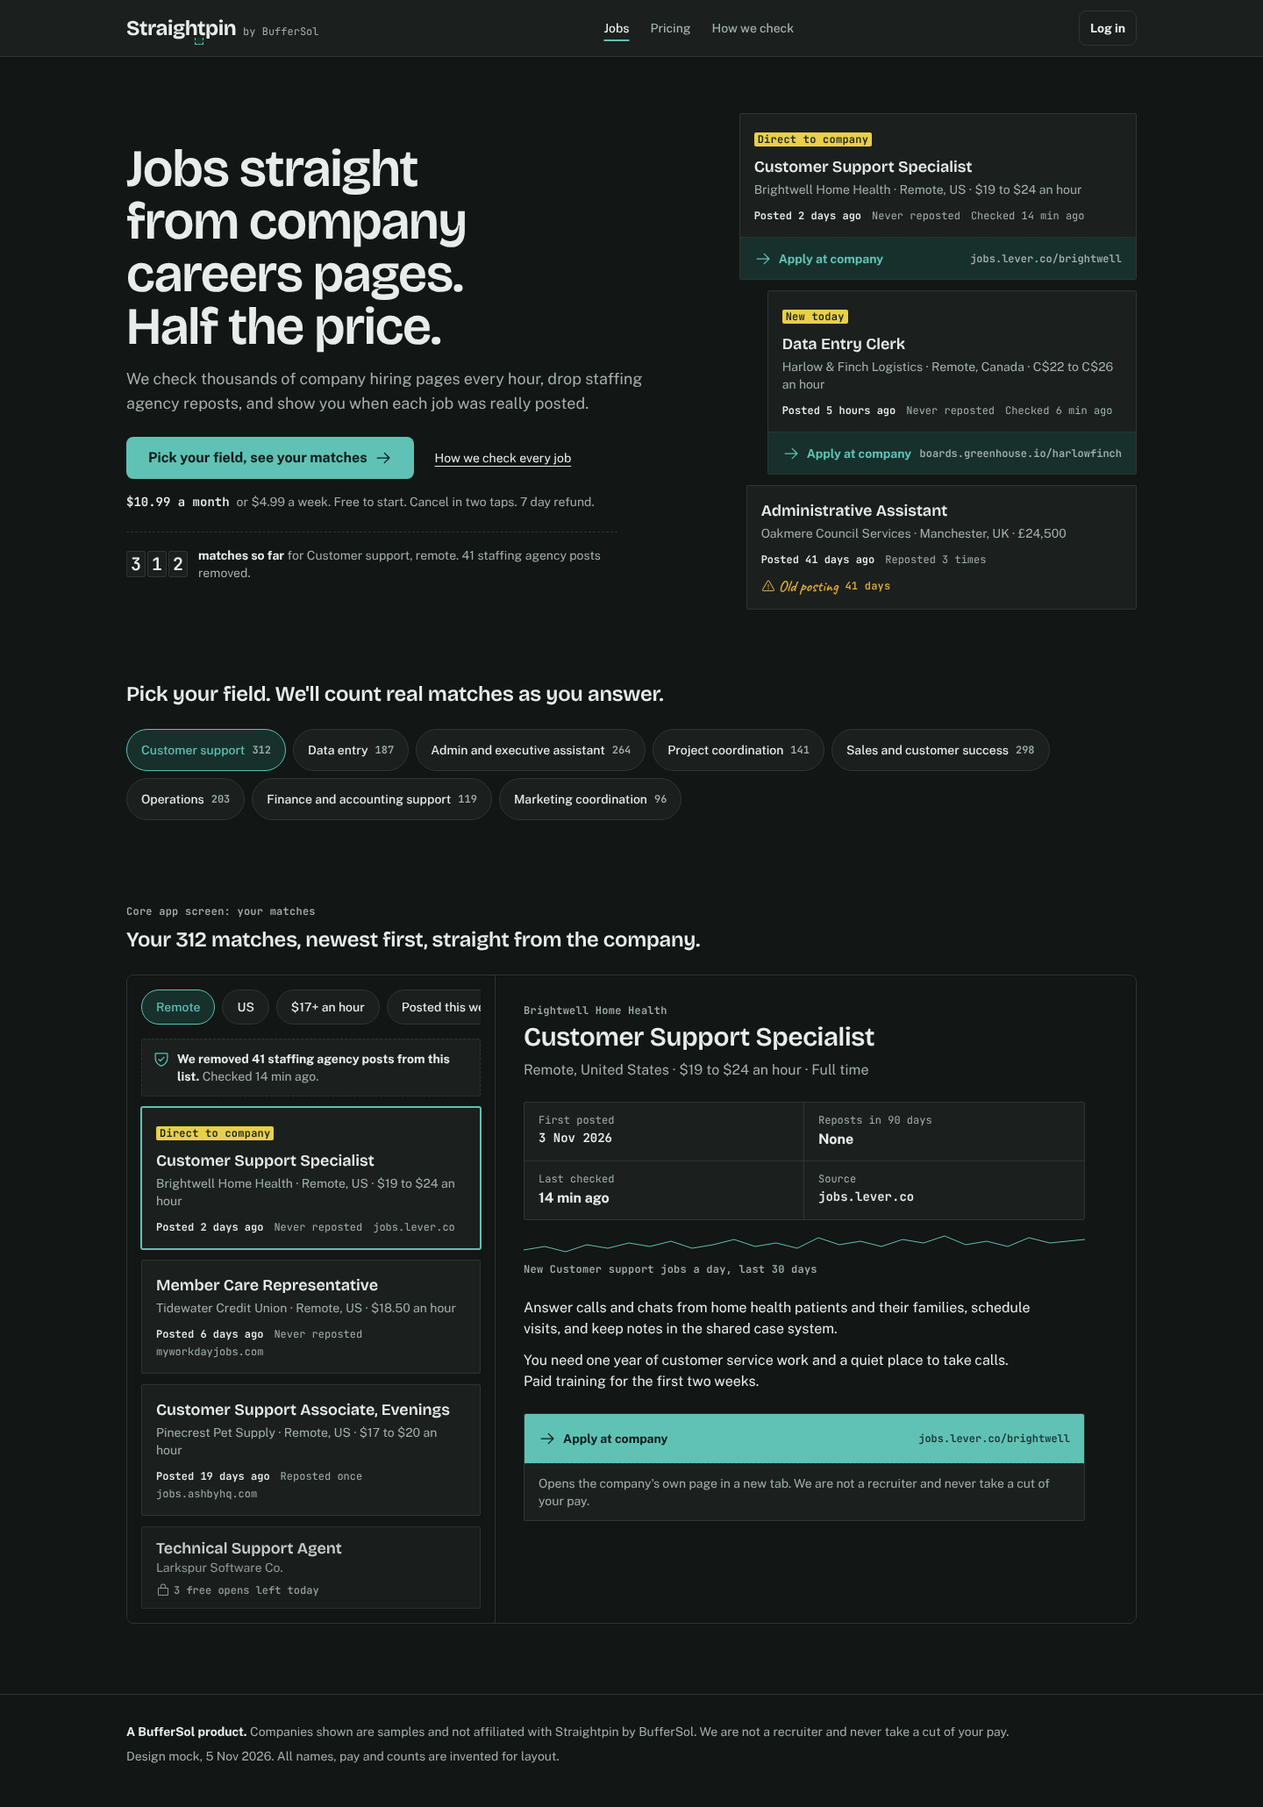
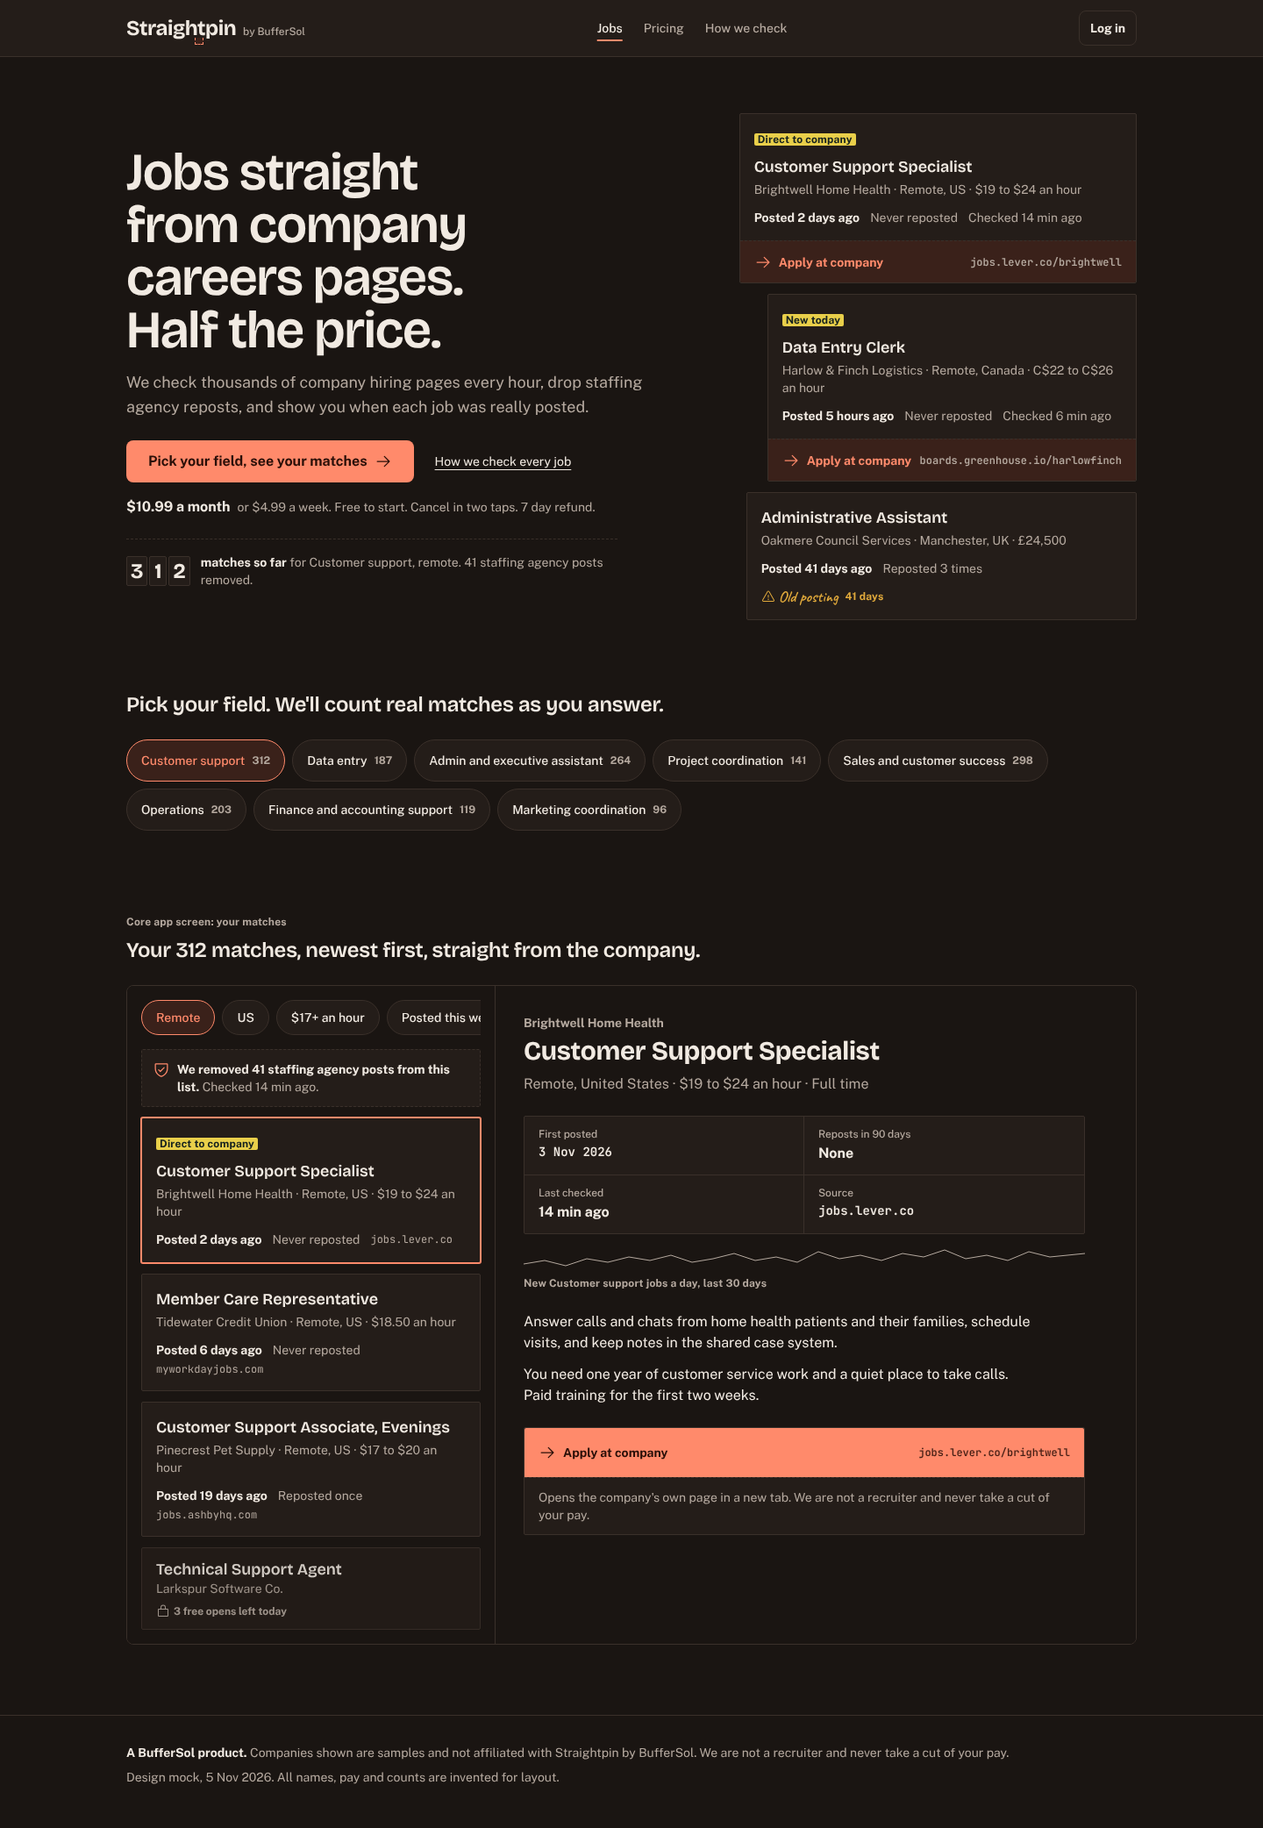
Design: warm tomato palette, mono cut back (#2)
* Design: warm tomato palette, mono cut back to tiny metadata (orchestrator review)

Claude-Session: https://claude.ai/code/session_01Mn59CoWLVeUHP8BZr387Lp

* Record D-009 palette decision

Claude-Session: https://claude.ai/code/session_01Mn59CoWLVeUHP8BZr387Lp

---------

diff --git a/docs/design/mock.html b/docs/design/mock.html
@@ -9,9 +9,9 @@
 <link href="https://fonts.googleapis.com/css2?family=Bricolage+Grotesque:opsz,wght@12..96,600;12..96,700&family=Caveat:wght@600&family=JetBrains+Mono:wght@400;600&family=Public+Sans:wght@400;500;700&display=swap" rel="stylesheet">
 <style>
 :root{
-  --board:#F3F4F1;--paper:#FFFFFF;--ink:#14201E;--ink-muted:#4F5D5A;--rule:#D5D9D3;
-  --brand:#0F5C55;--brand-hover:#0B4842;--brand-tint:#E3F1EE;--brand-on:#FFFFFF;
-  --highlight:#FFE45C;--marker:#C4321F;--success:#1E7B4F;--warn:#8A5A00;
+  --board:#F6F1E9;--paper:#FFFDF9;--ink:#1F1A17;--ink-muted:#5C524B;--rule:#DDD3C6;
+  --brand:#B8381C;--brand-hover:#8F2B14;--brand-tint:#FBE7DF;--brand-on:#FFFFFF;
+  --highlight:#FFE45C;--marker:#2A4B9B;--success:#1E7B4F;--warn:#8A5A00;
   --ease:cubic-bezier(0.22,1,0.36,1);
   --font-display:"Bricolage Grotesque",ui-sans-serif,system-ui,sans-serif;
   --font-body:"Public Sans",ui-sans-serif,system-ui,sans-serif;
@@ -19,16 +19,16 @@
   --font-hand:"Caveat",cursive;
 }
 @media (prefers-color-scheme:dark){:root:not([data-theme=light]){
-  --board:#121614;--paper:#1B201E;--ink:#E8ECEA;--ink-muted:#A3AFAB;--rule:#2E3532;
-  --brand:#5FC2B5;--brand-hover:#7AD3C7;--brand-tint:#17302C;--brand-on:#0B1A18;
-  --highlight:#E9CF4A;--marker:#FF8A73;--success:#5BC48C;--warn:#E0A93B;}}
+  --board:#1A1512;--paper:#241D19;--ink:#F1EAE2;--ink-muted:#B5A99F;--rule:#3A302A;
+  --brand:#FF8A6B;--brand-hover:#FFA48A;--brand-tint:#3A211A;--brand-on:#2A0F08;
+  --highlight:#E9CF4A;--marker:#8FB0FF;--success:#5BC48C;--warn:#E0A93B;}}
 :root[data-theme=dark]{
-  --board:#121614;--paper:#1B201E;--ink:#E8ECEA;--ink-muted:#A3AFAB;--rule:#2E3532;
-  --brand:#5FC2B5;--brand-hover:#7AD3C7;--brand-tint:#17302C;--brand-on:#0B1A18;
-  --highlight:#E9CF4A;--marker:#FF8A73;--success:#5BC48C;--warn:#E0A93B;}
+  --board:#1A1512;--paper:#241D19;--ink:#F1EAE2;--ink-muted:#B5A99F;--rule:#3A302A;
+  --brand:#FF8A6B;--brand-hover:#FFA48A;--brand-tint:#3A211A;--brand-on:#2A0F08;
+  --highlight:#E9CF4A;--marker:#8FB0FF;--success:#5BC48C;--warn:#E0A93B;}
 *{box-sizing:border-box;margin:0}
+.grid>*,.stack>*,.list>*,.app>*,.notice,.tear{min-width:0}
 html{-webkit-text-size-adjust:100%}
-html,body{overflow-x:clip}
 body{background:var(--board);color:var(--ink);font:400 16px/24px var(--font-body);}
 a{color:inherit}
 :focus-visible{outline:2px solid var(--brand);outline-offset:2px}
@@ -44,7 +44,8 @@ a{color:inherit}
 .body-3{font:400 16px/24px var(--font-body);text-wrap:pretty}
 .body-6{font:400 14px/20px var(--font-body)}
 .button-md{font:700 16px/24px var(--font-body)}
-.caption-3{font:600 12px/16px var(--font-mono);letter-spacing:.02em}
+.caption-3{font:700 12px/16px var(--font-body);letter-spacing:.02em}
+.mono{font-family:var(--font-mono)}
 .muted{color:var(--ink-muted)}
 /* top bar */
 .bar{background:var(--paper);border-bottom:1px solid var(--rule);position:sticky;top:0;z-index:10}
@@ -52,7 +53,7 @@ a{color:inherit}
 .logo{display:flex;align-items:baseline;gap:8px;text-decoration:none}
 .logo b{font:700 24px/32px var(--font-display);letter-spacing:-.02em;position:relative}
 .logo b i{position:absolute;left:62%;top:27px;width:10px;height:8px;border:1.5px dashed var(--brand);border-top:0;background:var(--brand-tint)}
-.logo span{font:400 12px/16px var(--font-mono);color:var(--ink-muted)}
+.logo span{font:500 12px/16px var(--font-body);color:var(--ink-muted)}
 .nav{display:none;gap:24px}.nav a{text-decoration:none;color:var(--ink-muted);font:500 14px/20px var(--font-body)}
 .nav a[aria-current]{color:var(--ink);text-decoration:underline;text-decoration-color:var(--brand);text-underline-offset:8px;text-decoration-thickness:2px}
 @media(min-width:768px){.nav{display:flex}}
@@ -71,25 +72,26 @@ a{color:inherit}
 .hl{background:var(--highlight);color:#14201E;padding:0 4px;border-radius:2px}
 .cta-row{margin-top:24px;display:flex;flex-wrap:wrap;gap:16px 24px;align-items:center}
 .price{margin-top:16px;display:flex;flex-wrap:wrap;gap:4px 8px;align-items:baseline}
-.price strong{font:600 14px/20px var(--font-mono)}
+.price strong{font:700 16px/24px var(--font-body)}
 .counter{margin-top:24px;display:flex;align-items:center;gap:12px;padding-top:16px;border-top:1.5px dashed var(--rule);max-width:560px}
 .digits{display:inline-flex;gap:2px}
-.digits span{font:600 20px/28px var(--font-mono);background:var(--paper);border:1px solid var(--rule);border-radius:2px;padding:0 4px;min-width:20px;text-align:center}
+.digits span{font:700 24px/32px var(--font-display);background:var(--paper);border:1px solid var(--rule);border-radius:2px;padding:0 4px;min-width:20px;text-align:center}
 /* notice card */
 .notice{background:var(--paper);border:1px solid var(--rule);border-radius:2px;transition:box-shadow .3s var(--ease),transform .5s var(--ease)}
-.notice:hover{box-shadow:0 1px 0 var(--rule),0 6px 16px rgb(20 32 30/.08)}
+.notice:hover{box-shadow:0 1px 0 var(--rule),0 6px 16px rgb(31 26 23/.10)}
 .stack{display:grid;gap:12px;position:relative}
 .notice .body{padding:16px}
 .notice h3{font:600 18px/24px var(--font-display)}
 .company{margin-top:4px}
-.meta{display:flex;flex-wrap:wrap;gap:4px 12px;margin-top:12px;font:400 12px/16px var(--font-mono);color:var(--ink-muted)}
+.meta{display:flex;flex-wrap:wrap;gap:4px 12px;margin-top:12px;font:400 14px/20px var(--font-body);color:var(--ink-muted)}
+.meta .host{font:400 12px/16px var(--font-mono);align-self:center}
 .meta b{font-weight:600;color:var(--ink)}
 .tags{display:flex;flex-wrap:wrap;gap:8px;margin-top:12px;align-items:center}
 .note{font:600 18px/20px var(--font-hand);color:var(--marker);display:inline-flex;gap:4px;align-items:center}
 .note svg{width:16px;height:16px}
 .warn{color:var(--warn)}
 .tear{display:flex;width:100%;justify-content:space-between;align-items:center;min-height:48px;padding:8px 16px;background:var(--brand-tint);color:var(--brand);border:0;border-top:1.5px dashed var(--rule);font:700 14px/20px var(--font-body);cursor:pointer;border-radius:0 0 2px 2px;text-align:left;gap:8px}
-.tear span.h{overflow:hidden;text-overflow:ellipsis;white-space:nowrap;min-width:0;font:600 12px/16px var(--font-mono);color:var(--ink-muted)}
+.tear span.h{font-family:var(--font-mono)!important;overflow:hidden;text-overflow:ellipsis;white-space:nowrap;min-width:0;font:600 12px/16px var(--font-mono);color:var(--ink-muted)}
 .tear .t{white-space:nowrap;display:inline-flex;gap:8px;align-items:center;transition:transform .16s var(--ease)}
 .tear:hover .t{transform:translateX(4px)}
 .tear.torn .t{transform:translateX(6px)}
@@ -102,7 +104,7 @@ a{color:inherit}
 .chip{display:inline-flex;gap:8px;align-items:center;min-height:48px;padding:8px 16px;border-radius:9999px;border:1px solid var(--rule);background:var(--paper);font:500 14px/20px var(--font-body);cursor:pointer;color:var(--ink);transition:background-color .3s var(--ease),border-color .3s var(--ease)}
 .chip:hover{border-color:var(--brand)}
 .chip[aria-pressed=true]{background:var(--brand-tint);border-color:var(--brand);color:var(--brand)}
-.chip em{font:600 12px/16px var(--font-mono);font-style:normal;color:var(--ink-muted)}
+.chip em{font:700 12px/16px var(--font-body);font-style:normal;color:var(--ink-muted)}
 /* app screen */
 .section{padding:48px 0}
 .sec-head{display:grid;gap:8px;max-width:680px;margin-bottom:24px}
@@ -116,17 +118,17 @@ a{color:inherit}
 .receipt svg{flex:none;width:20px;height:20px;color:var(--brand)}
 .notice.sel{border-color:var(--brand);box-shadow:0 0 0 1px var(--brand)}
 .locked{display:flex;flex-wrap:wrap;justify-content:space-between;gap:8px;padding:12px 16px;opacity:.85}
-.locked .lk{font:600 12px/16px var(--font-mono);color:var(--ink-muted);display:inline-flex;gap:4px;align-items:center;white-space:nowrap}
+.locked .lk{font:600 12px/16px var(--font-body);color:var(--ink-muted);display:inline-flex;gap:4px;align-items:center;white-space:nowrap}
 .locked svg{width:16px;height:16px}
 .reader{display:none;padding:32px;background:var(--board)}
 @media(min-width:1120px){.reader{display:block}}
 .sheet{max-width:640px}
-.sheet h2{font:600 30px/36px var(--font-display);letter-spacing:-.01em;text-wrap:balance}
+.sheet h2{font:700 30px/36px var(--font-display);letter-spacing:-.01em;text-wrap:balance}
 .trust{display:grid;grid-template-columns:repeat(2,1fr);gap:0;margin-top:24px;border:1px solid var(--rule);border-radius:2px;background:var(--paper)}
 .trust div{padding:12px 16px;border-bottom:1px solid var(--rule)}
 .trust div:nth-child(odd){border-right:1px solid var(--rule)}
 .trust div:nth-last-child(-n+2){border-bottom:0}
-.trust dt{font:400 12px/16px var(--font-mono);color:var(--ink-muted)}
+.trust dt{font:500 12px/16px var(--font-body);color:var(--ink-muted)}
 .trust dd{font:600 16px/24px var(--font-body);margin-top:2px}
 .trust dd.mono{font:600 14px/20px var(--font-mono)}
 .desc{margin-top:24px;display:grid;gap:12px;color:var(--ink)}
@@ -249,21 +251,21 @@ footer{padding:32px 0 48px;border-top:1px solid var(--rule);margin-top:32px}
             <span class="hl caption-3">Direct to company</span>
             <h3 style="margin-top:8px">Customer Support Specialist</h3>
             <p class="company body-6 muted">Brightwell Home Health · Remote, US · $19 to $24 an hour</p>
-            <p class="meta"><span><b>Posted 2 days ago</b></span><span>Never reposted</span><span>jobs.lever.co</span></p>
+            <p class="meta"><span><b>Posted 2 days ago</b></span><span>Never reposted</span><span class="host">jobs.lever.co</span></p>
           </div>
         </article>
         <article class="notice">
           <div class="body">
             <h3>Member Care Representative</h3>
             <p class="company body-6 muted">Tidewater Credit Union · Remote, US · $18.50 an hour</p>
-            <p class="meta"><span><b>Posted 6 days ago</b></span><span>Never reposted</span><span>myworkdayjobs.com</span></p>
+            <p class="meta"><span><b>Posted 6 days ago</b></span><span>Never reposted</span><span class="host">myworkdayjobs.com</span></p>
           </div>
         </article>
         <article class="notice">
           <div class="body">
             <h3>Customer Support Associate, Evenings</h3>
             <p class="company body-6 muted">Pinecrest Pet Supply · Remote, US · $17 to $20 an hour</p>
-            <p class="meta"><span><b>Posted 19 days ago</b></span><span>Reposted once</span><span>jobs.ashbyhq.com</span></p>
+            <p class="meta"><span><b>Posted 19 days ago</b></span><span>Reposted once</span><span class="host">jobs.ashbyhq.com</span></p>
           </div>
         </article>
         <article class="notice locked">
@@ -273,7 +275,7 @@ footer{padding:32px 0 48px;border-top:1px solid var(--rule);margin-top:32px}
       </div>
       <div class="reader">
         <div class="sheet">
-          <p class="caption-3 muted">Brightwell Home Health</p>
+          <p class="body-6 muted" style="font-weight:700">Brightwell Home Health</p>
           <h2 style="margin-top:4px">Customer Support Specialist</h2>
           <p class="body-3 muted" style="margin-top:8px">Remote, United States · $19 to $24 an hour · Full time</p>
           <dl class="trust">
@@ -282,7 +284,7 @@ footer{padding:32px 0 48px;border-top:1px solid var(--rule);margin-top:32px}
             <div><dt>Last checked</dt><dd>14 min ago</dd></div>
             <div><dt>Source</dt><dd class="mono">jobs.lever.co</dd></div>
           </dl>
-          <svg class="spark" viewBox="0 0 640 40" width="100%" height="40" role="img" aria-label="New Customer support jobs per day, last 30 days: steady, 9 to 14 a day"><polyline fill="none" stroke="var(--brand)" stroke-width="1" points="0,26 24,22 48,28 72,20 96,24 120,18 144,22 168,16 192,24 216,20 240,14 264,22 288,18 312,24 336,12 360,20 384,16 408,22 432,14 456,18 480,10 504,20 528,16 552,22 576,12 600,18 640,14"/></svg>
+          <svg class="spark" viewBox="0 0 640 40" width="100%" height="40" role="img" aria-label="New Customer support jobs per day, last 30 days: steady, 9 to 14 a day"><polyline fill="none" stroke="var(--ink-muted)" stroke-width="1" points="0,26 24,22 48,28 72,20 96,24 120,18 144,22 168,16 192,24 216,20 240,14 264,22 288,18 312,24 336,12 360,20 384,16 408,22 432,14 456,18 480,10 504,20 528,16 552,22 576,12 600,18 640,14"/></svg>
           <p class="caption-3 muted">New Customer support jobs a day, last 30 days</p>
           <div class="desc">
             <p>Answer calls and chats from home health patients and their families, schedule visits, and keep notes in the shared case system.</p>

diff --git a/docs/DESIGN.md b/docs/DESIGN.md
@@ -16,24 +16,24 @@ Each job is a paper notice on a calm board. The apply action is a perforated tea
 **Signature move (one per page):** the tear off tab. Tap slides the tab 6px, the perforation opens (transform only, 160ms), then the employer's page opens. In the hero it is a live, real component. Second: the match counter ticks like a flip number.
 
 ## 4. Palette (hex tokens, role names)
-Flat surfaces only. No background gradients. One accent (pushpin teal, saturation under 80%).
+Flat surfaces only. No background gradients. One accent: **pushpin tomato** (saturation about 73%). Changed 5 Nov 2026 on orchestrator review: the first draft was teal, the fourth dark green in the BufferSol batch; this is the only consumer product, so it is warmer and friendlier, with warm paper neutrals, and the margin notes use ballpoint blue so red keeps one job (actions).
 
 | Token | Light | Dark ("Night board") | Use |
 |---|---|---|---|
-| `--color-board` | #F3F4F1 | #121614 | page background |
-| `--color-paper` | #FFFFFF | #1B201E | notice cards, sheets |
-| `--color-ink` | #14201E | #E8ECEA | text (AAA on board/paper) |
-| `--color-ink-muted` | #4F5D5A | #A3AFAB | secondary text (7:1 / 7.5:1) |
-| `--color-rule` | #D5D9D3 | #2E3532 | borders, perforation |
-| `--color-brand` | #0F5C55 | #5FC2B5 | actions, links, focus. White text on light brand 7.8:1; dark ink text on dark brand |
-| `--color-brand-hover` | #0B4842 | #7AD3C7 | |
-| `--color-brand-tint` | #E3F1EE | #17302C | selected chips, soft fills |
-| `--color-brand-on` | #FFFFFF | #0B1A18 | text on brand |
-| `--color-highlight` | #FFE45C | #E9CF4A | highlighter behind "Direct to company" and "New today" only; text on it is ink (#14201E in both modes) |
-| `--color-marker` | #C4321F | #FF8A73 | ghost/agency warnings, always icon + word |
+| `--color-board` | #F6F1E9 | #1A1512 | page background (warm paper) |
+| `--color-paper` | #FFFDF9 | #241D19 | notice cards, sheets |
+| `--color-ink` | #1F1A17 | #F1EAE2 | text (15:1 on board) |
+| `--color-ink-muted` | #5C524B | #B5A99F | secondary text (6.8:1 / 7.2:1) |
+| `--color-rule` | #DDD3C6 | #3A302A | borders, perforation |
+| `--color-brand` | #B8381C (pushpin tomato) | #FF8A6B | actions, links, focus. White on brand 5.8:1; brand on board 5.2:1; dark ink #2A0F08 on dark brand 7.8:1 |
+| `--color-brand-hover` | #8F2B14 | #FFA48A | white on hover 8.3:1 |
+| `--color-brand-tint` | #FBE7DF | #3A211A | selected chips, tear off tab fill |
+| `--color-brand-on` | #FFFFFF | #2A0F08 | text on brand |
+| `--color-highlight` | #FFE45C | #E9CF4A | highlighter behind "Direct to company" and "New today" only; text on it is ink #14201E in both modes |
+| `--color-marker` | #2A4B9B (ballpoint blue) | #8FB0FF | margin notes and agency/ghost callouts, always icon + word (8:1) |
 | `--color-success` | #1E7B4F | #5BC48C | |
-| `--color-warn` | #8A5A00 | #E0A93B | old posting (>30 days) |
-| `--color-error` | #B42318 | #FF8478 | |
+| `--color-warn` | #8A5A00 | #E0A93B | old posting (>30 days), 5.8:1 |
+| `--color-error` | #B42318 | #FF8478 | errors only, never confused with brand because it is always paired with an icon and message |
 
 Two layer model: primitives (ramp) and semantic roles above; components use only roles. Dark mode: via `[data-theme=dark]` and `prefers-color-scheme`; never pure #000.
 
@@ -44,8 +44,8 @@ Fonts self hosted at build via `next/font/google` (no runtime font CDN).
 |---|---|---|---|
 | Display + UI headings | **Bricolage Grotesque** | 600, 700 | no 800/900 (skill rule: max bold). Optical size axis on. Tracking -0.02em on display |
 | Body + UI | **Public Sans** | 400, 500, 700 | 16px minimum on mobile inputs |
-| Data | **JetBrains Mono** | 400, 600 | dates, counts, source hosts, prices in tables only |
-| Margin note | **Caveat** | 600 | max 4 words per note, never body, decorative `aria-hidden` when it duplicates a visible label |
+| Data | **JetBrains Mono** | 400, 600 | **tiny metadata only**: source host on cards and tear off tab, first posted date in the trust strip. Never for counts, prices, labels, headings, tags or nav (changed 5 Nov: sans carries all UI at 375) |
+| Margin note | **Caveat** | 600 | one use only: the "Old posting" margin note. Max 4 words, never body, decorative `aria-hidden` when it duplicates a visible label |
 
 Scale snaps to the Tailwind default steps (skill B1). Named styles: Heading 1 (text-6xl desktop, text-4xl mobile) ... Caption 5, defined once as classes `heading-1` ... `caption-5`. Hero H1 uses Heading 1 on desktop; on 375 it uses Heading 3 (36/40). `text-wrap: balance` headings, `pretty` body. No italics anywhere. No hyphens in UI copy (rewrite: "direct to company" becomes "straight from the company" in sentences; the brand mark text "Direct to company" is a label with spaces).
 
@@ -82,7 +82,7 @@ Don't: indigo/violet or mint hero; background gradients; glassmorphism; icon in 
 ## 10. Why it fits this ICP better than the competitors
 1. **Trust before taste.** Rhonda's top question is "Is this a scam?". We answer it with the price, refund and a source host on the first screen; DirectRoles puts a star pill and tech jobs there.
 2. **It looks like her world.** A paper notice with a date and tear off tab is the most legible metaphor for "a real job at a real place"; competitors use AI copilot dashboards for software engineers.
-3. **Calm over hype.** Teal on warm paper, left aligned, quiet motion. Jobright is mint and all caps, DirectRoles indigo gradient, Simplify serif plus collage.
+3. **Calm over hype.** Tomato on warm paper, left aligned, quiet motion. Jobright is mint and all caps, DirectRoles indigo gradient, Simplify serif plus collage.
 4. **Honest signals are the visual.** "Posted 2 days ago · never reposted", the marker note "Old posting, 41 days", and the "We removed 41 staffing agency posts" receipt are design elements nobody else has because nobody else computes them.
 5. **Phone first.** Bottom tab bar, 48px targets, one question per screen quiz, 16px inputs.
 

diff --git a/docs/DECISIONS.md b/docs/DECISIONS.md
@@ -11,3 +11,4 @@ Standing decisions are in docs/factory/BATCH1_PLAN.md (Mongo instead of Postgres
 - **D-006 Auth:** Better Auth email code/magic link + passkeys, instead of Auth.js (kit decision).
 - **D-007 Weight rule:** display uses Bricolage 600/700 (no 800) to respect the "no ultra bold" skill rule.
 - **D-008 Competitor note:** DirectRoles live hero is now indigo gradient (brief recorded blue). HiringCafe is behind a bot challenge and is not crawled or bypassed.
+- **D-009 Palette and mono (orchestrator review, 5 Nov 2026):** primary changed from teal #0F5C55 to pushpin tomato #B8381C (warm paper neutrals, dark mode #FF8A6B on #1A1512) so Straightpin is distinct from the other green/teal BufferSol products and friendlier for a consumer audience. Margin notes use ballpoint blue #2A4B9B so red keeps one job. Mono is now tiny metadata only (source host, first posted date); Caveat only for the "Old posting" note. All pairs checked AA.

diff --git a/docs/PROGRESS.md b/docs/PROGRESS.md
@@ -2,5 +2,5 @@
 
 ## State (5 Nov 2026)
 - Phase 0 done: DESIGN.md, SECTION_PLAN.md, ARCHITECTURE.md, ROADMAP.md, MANUAL_STEPS.md, competitor notes + refs, design mock (docs/design/mock.html, mock-1440.png, mock-375.png).
-- Next: orchestrator design approval and "kit-v1 ready", then M1.
+- Design APPROVED by orchestrator with palette (tomato) and mono changes, applied (D-009). Next: pure TS modules (ATS adapters, JSON-LD crawler, robots/rate limiter, agency classifier) with tests until "kit-v1 ready", then M1.
 - Live URL: not deployed yet.
